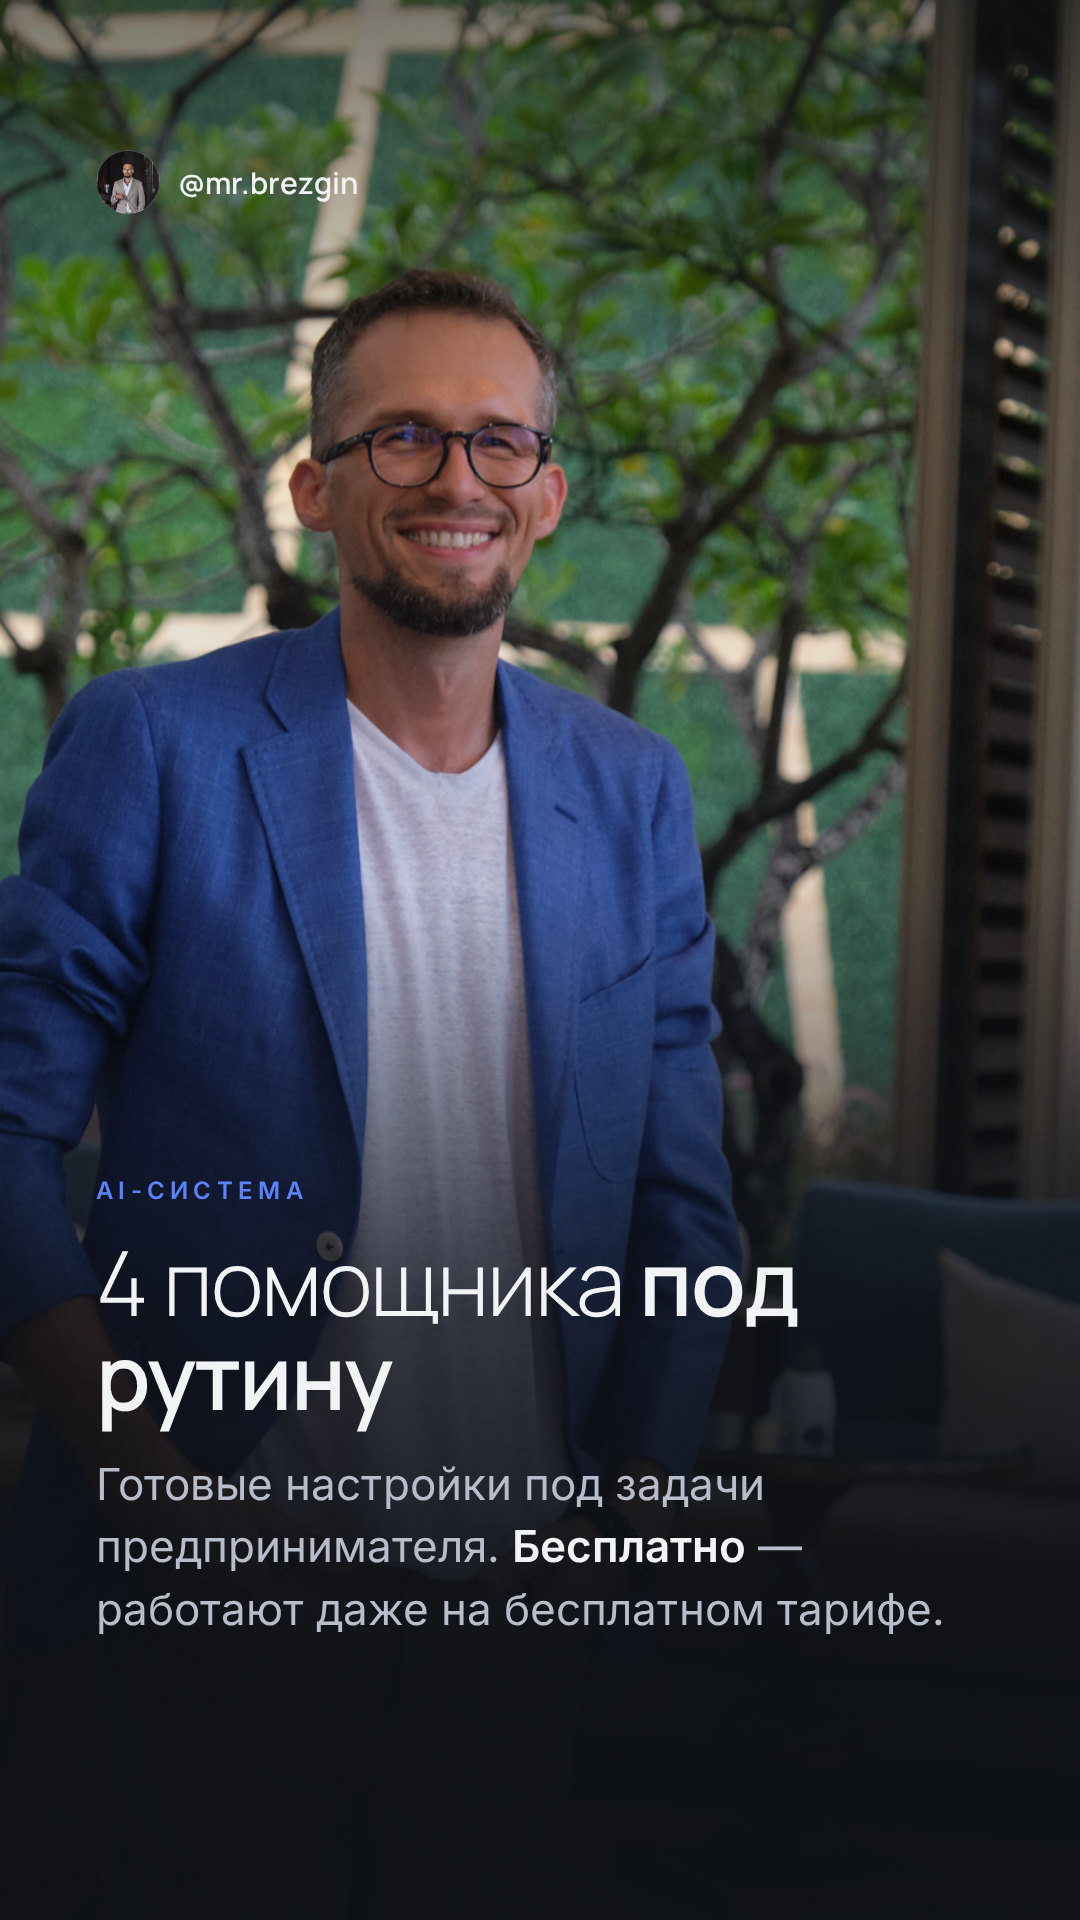
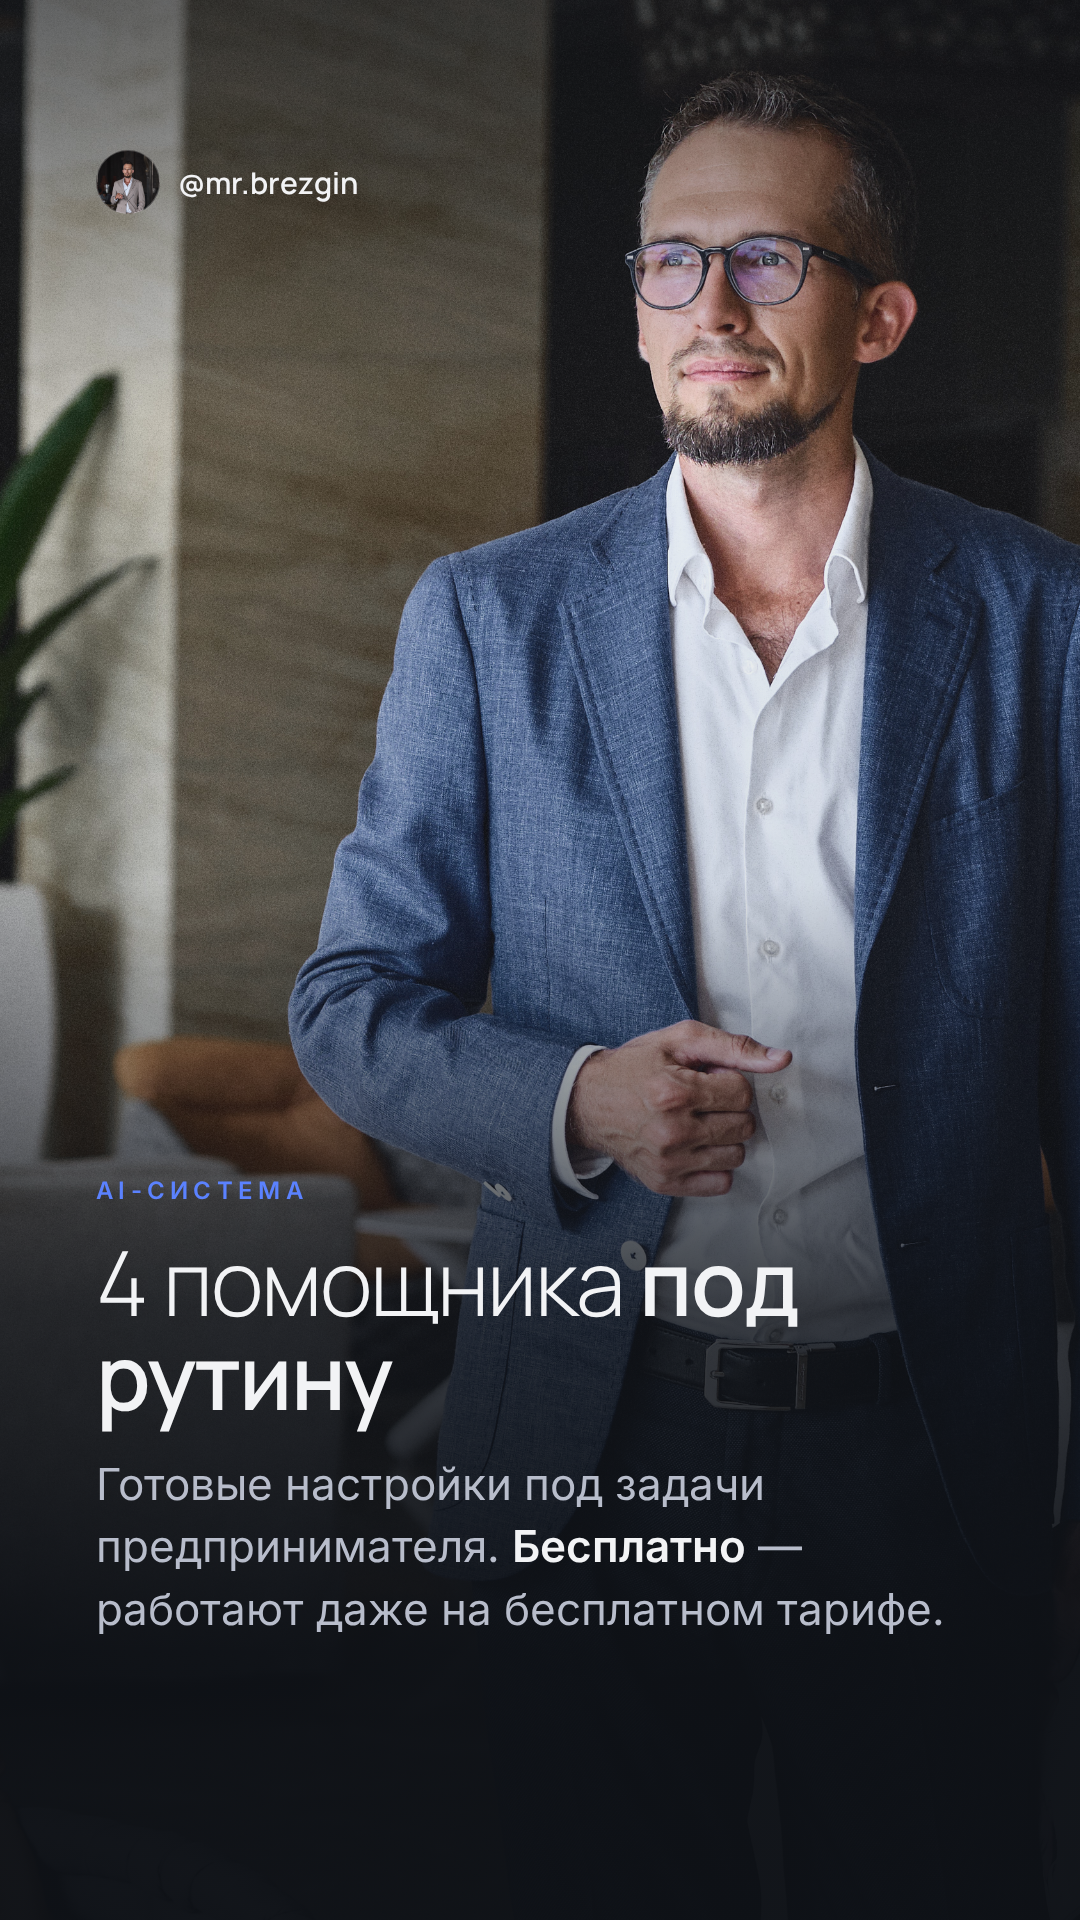
Stories AI-СИСТЕМА: фото 1450 (синий пиджак, премиум-лобби)

diff --git a/stories.html b/stories.html
@@ -23,7 +23,7 @@ a{color:#5b82ff}.lk{display:block;text-align:center;margin-top:22px;font-size:13
 <a class="lk" href="./highlights.html">← обложки хайлайтов</a>
 <div id="lb" onclick="this.classList.remove('on')"><img id="li"></div>
 <script>
-const V='?v=20260624st2';
+const V='?v=20260624st3';
 function fill(id,files){const r=document.getElementById(id);files.forEach(f=>{const p='stories/'+f+'.png'+V;const im=new Image();im.src=p;im.onclick=()=>{document.getElementById('li').src=p;document.getElementById('lb').classList.add('on')};r.appendChild(im);});}
 fill('about',['about-1','about-2','about-3']);
 fill('system',['system-1','system-2','system-3']);